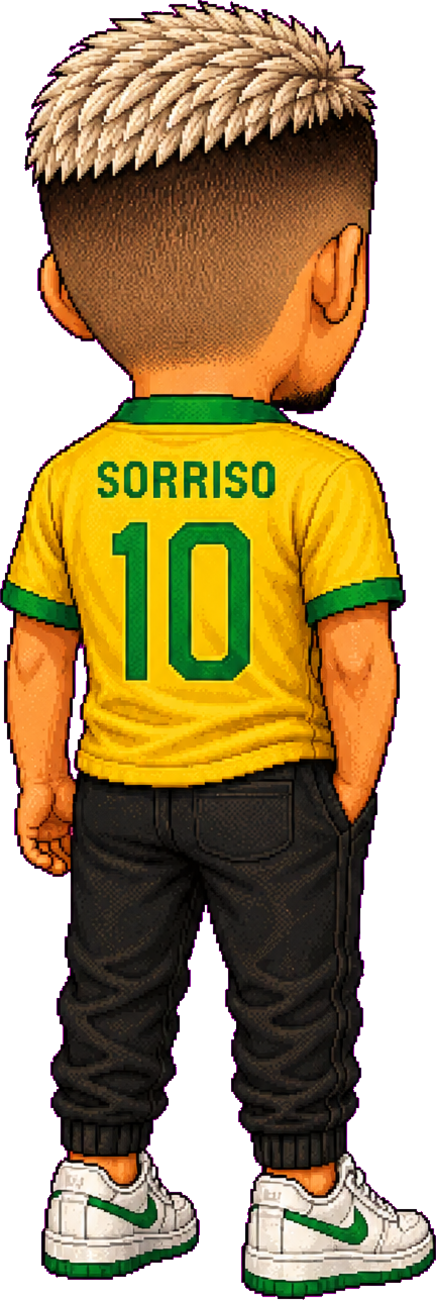
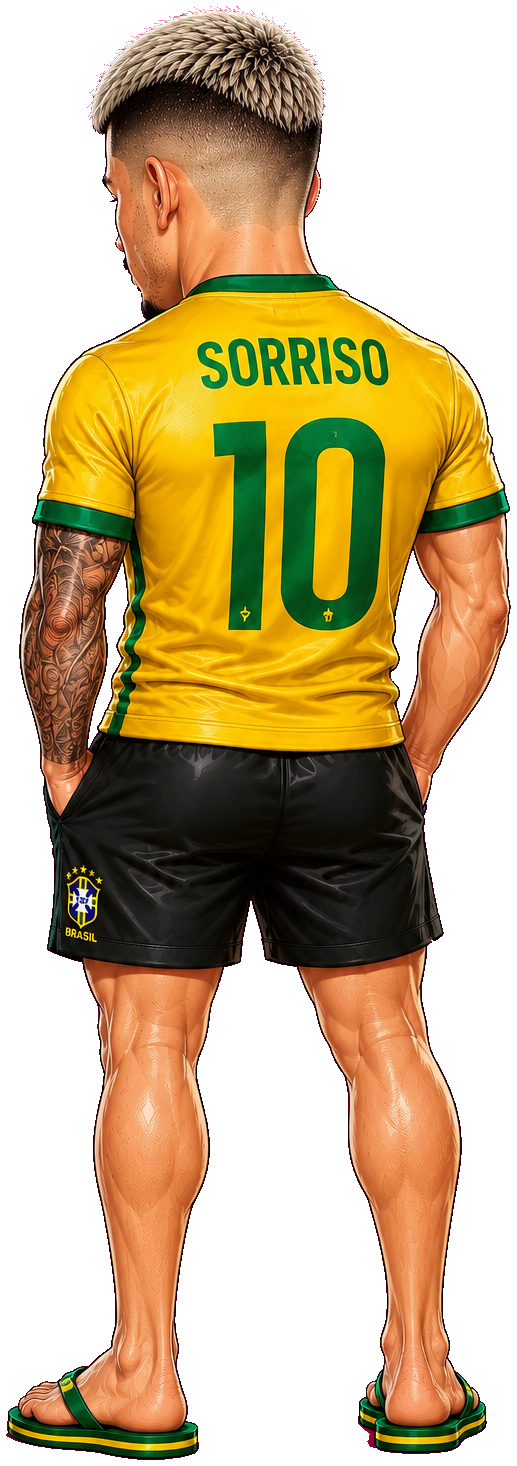
Replace Sorriso's sprite with the new chibi-realism art; drop old costumes
New keyed front + back for Sorriso (soul "nathaniel") — the Brasil #10 jersey
look redrawn in the chibi-realism house style, keyed off the magenta field
(enclosed under-arm pockets cleared, edge de-haloed). The three old costume
looks (loyalty / varsity / bomber) are trashed and their OUTFITS entries
removed, leaving just the Brasil default until the new costumes land.

Claude-Session: https://claude.ai/code/session_01MzT91WcyqemncboiCffQLx

diff --git a/src/game/outfits.ts b/src/game/outfits.ts
@@ -21,13 +21,8 @@ export const OUTFITS: Record<string, Outfit[]> = {
     { id: "gingham", label: "Gingham", stem: "lori__gingham-going-out" },
     { id: "shark", label: "Shark Shorts", stem: "lori__shark-shorts" },
   ],
-  // Sorriso (soul id "nathaniel"). Brasil jersey is his default look.
-  nathaniel: [
-    { id: "brasil", label: "Brasil", stem: "nathaniel" },
-    { id: "loyalty", label: "Loyalty", stem: "nathaniel_loyalty" },
-    { id: "varsity", label: "Varsity", stem: "nathaniel_varsity" },
-    { id: "bomber", label: "Bomber", stem: "nathaniel_bomber" },
-  ],
+  // Sorriso (soul id "nathaniel"). Brasil jersey is his default look. New costumes incoming.
+  nathaniel: [{ id: "brasil", label: "Brasil", stem: "nathaniel" }],
   // Vee Knox. "Rock Forever" street-glam look is her default.
   vee_knox: [
     { id: "rock", label: "Rock", stem: "vee_knox" },
